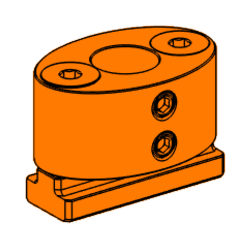
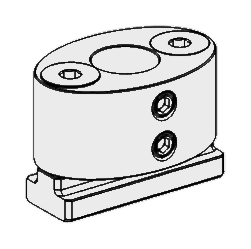
Clarify overhead kit labels and flatten kit diagram styling
- Rename kit sections to "Overhead mounting kit" so the through-hole
  option isn't confused with the kit contents.
- Tighten tools and pilot-hole wording in the tools table.
- Make the dropdown pipe diagram white-filled and refresh the rail
  block and wood screw images.
- Strip border and radius from kit card images so the artwork renders
  cleanly.

diff --git a/assets/style.css b/assets/style.css
@@ -493,7 +493,7 @@ h2[id], h3[id] {
 @media (max-width: 520px) { .kit-grid { grid-template-columns: repeat(2, 1fr); } }
 .kit-card { margin: 0; border: 1px solid var(--line); border-radius: var(--radius); overflow: hidden; background: var(--paper); display: flex; flex-direction: column; }
 .kit-img { height: 140px; display: flex; align-items: center; justify-content: center; padding: 8px; border-bottom: 1px solid var(--line-soft); }
-.kit-img img { max-width: 100%; max-height: 100%; object-fit: contain; display: block; }
+.kit-img img { border: 0; border-radius: 0; max-width: 100%; max-height: 100%; object-fit: contain; display: block; }
 .kit-card figcaption { display: flex; flex-direction: column; gap: 2px; padding: 8px 10px; font-size: 15px; line-height: 1.35; }
 .kit-name { font-weight: 700; }
 .kit-qty { color: var(--focal); font-weight: 700; }

diff --git a/_guides/rail-installation.md b/_guides/rail-installation.md
@@ -77,27 +77,27 @@ Can't reach the far side, and the wood isn't solid? Don't mount here. Contact Fo
 
 ## Gather the kit and tools
 
-### Kit hardware
+### Overhead mounting kit hardware
 
-Every rail ships with the same kit: two pre-built rail block assemblies, two of each bracket type, plus fasteners for all three fastening methods. Use two brackets per rail.
+The overhead mounting kit includes two pre-built rail block assemblies, two of each bracket type, plus fasteners for all three fastening methods. Use two brackets per rail.
 
 {% include kitgrid.html items="kit-rail-block.png|Rail block assembly|2|Fully assembled. The T-nuts, T-nut screws and set screws are already in place ;; kit-parallel-bracket.png|Overhead bracket|2|Underside of beam, joist or ceiling ;; kit-perpendicular-bracket.png|Vertical bracket|2|Side of beam, joist or wall ;; kit-set-screw.png|Set screw, 1/4-20 x 5/16\"|4|Clamps the pipe in the bracket. Thread two into each bracket ;; kit-dropdown-pipe.svg|Dropdown pipe, 6 ft|1|Cut into two drops that hang the rail ;; kit-wood-screw.png|Wood screw, #12 x 2\" and 3\"|4 of each length|For wood screws ;; kit-flat-head-screw.png|Machine screw, 1/4-20 x 1.5\", 2.5\" and 3.5\"|4 of each length|For through bolts and tapped holes ;; kit-washer.png|SAE washer, 1/4\" ID|4|For through bolts ;; kit-lock-nut.png|Nylon lock nut, 1/4-20|4|For through bolts" %}
 
-### Kit tools
+### Overhead mounting kit tools
 
 {% include kitgrid.html items="kit-tool-l-wrench-1-8.png|1/8\" L-wrench|1|Set screws ;; kit-tool-l-wrench-t30.png|T30 L-wrench|1|Machine screws, T-nut screws ;; kit-tool-t25-bit.png|T25 screwdriver bit|1|Wood screws" %}
 
 ### What to bring
 
-{% include warn.html text="The kit does not include a drill, drill bits, a nut wrench, a pipe cutter, or measuring tools. Have everything below with you before you start." %}
+{% include warn.html text="The overhead mounting kit does not include a drill, drill bits, a nut wrench, a pipe cutter, or measuring tools. Have everything below with you before you start." %}
 
 Bring these for every install:
 
 - Drill and ladder
 - Tape measure, level and pencil
-- Pipe cutter or hacksaw, and a file for deburring
+- Pipe cutter or hacksaw, and a deburring file
 - Cable clips or ties
-- 12 AWG extension cord, only if the 8-foot cable can't reach the outlet
+- 12 AWG extension cord, if the 8-foot cable can't reach the outlet
 
 Then add the tools for the choices you made:
 
@@ -105,9 +105,9 @@ Then add the tools for the choices you made:
 |---|---|
 | Overhead bracket | Nothing extra |
 | Vertical bracket | 3/8" support-shaft bit |
-| Wood screws | Pilot bit for #12 wood screws. The right size depends on your wood, so check a pilot hole chart. |
+| Wood screws | Pilot bit for #12 screws (size depends on your wood, so check a pilot hole chart) |
 | Through bolts | Through-hole bit for 1/4-20 bolts<br>7/16" wrench or socket |
-| Tapped holes | 1/4-20 tap, and the tap-drill bit that tap calls for |
+| Tapped holes | 1/4-20 tap<br>Matching tap-drill bit |
 
 
 ## Mount the rail
